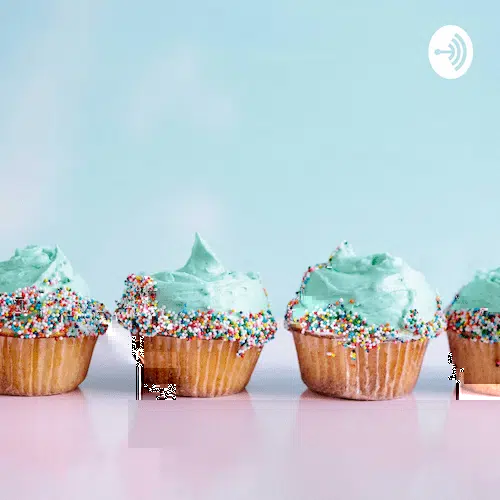
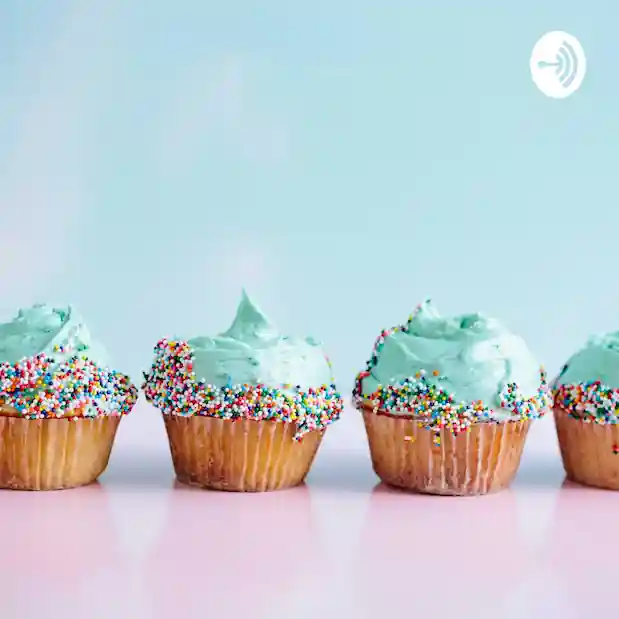
Added height and width to porfolio pics

Changed region(s): [[0.0, 0.54, 1.0, 0.81], [0.63, 0.51, 0.69, 0.54]]

diff --git a/index.html b/index.html
@@ -216,7 +216,7 @@
 		</div>
 		<div class="row tight-width-whitespace portfolio-row">
 			<div class="col-sm-6 portfolio-card">
-				<a href="#" data-lightbox="img/11.webp" data-gallery-id="gallery-1" data-caption="Website for Atlanta's Premiere dog salon" data-frame="snapshot-lb"><img src="img/11.webp" class="img-responsive portfolio-thumb" alt="Graphic, web design company creates internet website for dog salon"/></a>
+				<a href="#" data-lightbox="img/11.webp" data-gallery-id="gallery-1" data-caption="Website for Atlanta's Premiere dog salon" data-frame="snapshot-lb"><img src="img/11.webp" class="img-responsive portfolio-thumb" height="100" width="100" alt="Graphic, web design company creates internet website for dog salon"/></a>
 				<h3 class="mg-md text-center">
 					Website for Atlanta&rsquo;s premiere Dog Sitters
 				</h3>
@@ -225,7 +225,7 @@
 				</p>
 			</div>
 			<div class="col-sm-6 portfolio-card">
-				<a href="#" data-lightbox="img/2.webp" data-gallery-id="gallery-1" data-caption="Web redesign for the best cupcakes in Atlanta" data-frame="snapshot-lb"><img src="img/2.webp" class="img-responsive portfolio-thumb" alt="Creative, graphic, digital designer for best cupcakes in atlanta"/></a>
+				<a href="#" data-lightbox="img/2.webp" data-gallery-id="gallery-1" data-caption="Web redesign for the best cupcakes in Atlanta" data-frame="snapshot-lb"><img src="img/2.webp" class="img-responsive portfolio-thumb" height="100" width="100" alt="Creative, graphic, digital designer for best cupcakes in atlanta"/></a>
 				<h3 class="mg-md text-center">
 					Web redesign for the best Atlanta&nbsp;cupcakes
 				</h3>
@@ -236,7 +236,7 @@
 		</div>
 		<div class="row tight-width-whitespace portfolio-row">
 			<div class="col-sm-6 portfolio-card">
-				<a href="#" data-lightbox="img/3.webp" data-gallery-id="gallery-1" data-caption="New logo and website for Atlanta's best tech gear shop" data-frame="snapshot-lb"><img src="img/3.webp" class="img-responsive portfolio-thumb" alt="Graphic, website and logo design for best tech gear shop"/></a>
+				<a href="#" data-lightbox="img/3.webp" data-gallery-id="gallery-1" data-caption="New logo and website for Atlanta's best tech gear shop" data-frame="snapshot-lb"><img src="img/3.webp" class="img-responsive portfolio-thumb" height="100" width="100" alt="Graphic, website and logo design for best tech gear shop"/></a>
 				<h3 class="mg-md text-center">
 					New logo and website for Atl + Gear - Atlanta&rsquo;s best tech gear shop
 				</h3>
@@ -245,7 +245,7 @@
 				</p>
 			</div>
 			<div class="col-sm-6 portfolio-card">
-				<a href="#" data-lightbox="img/4.webp" data-gallery-id="gallery-1" data-caption="Atlanta's legal website generates 30% more clients after web redesign" data-frame="snapshot-lb"><img src="img/4.webp" class="img-responsive portfolio-thumb" alt="Atlanta's legal website generates 30% more clients after web redesign"/></a>
+				<a href="#" data-lightbox="img/4.webp" data-gallery-id="gallery-1" data-caption="Atlanta's legal website generates 30% more clients after web redesign" data-frame="snapshot-lb"><img src="img/4.webp" class="img-responsive portfolio-thumb" height="100" width="100" alt="Atlanta's legal website generates 30% more clients after web redesign"/></a>
 				<h3 class="mg-md text-center">
 					Atlanta&rsquo;s legal new website - Generating 30% more law clients with a refresh&nbsp;
 				</h3>
